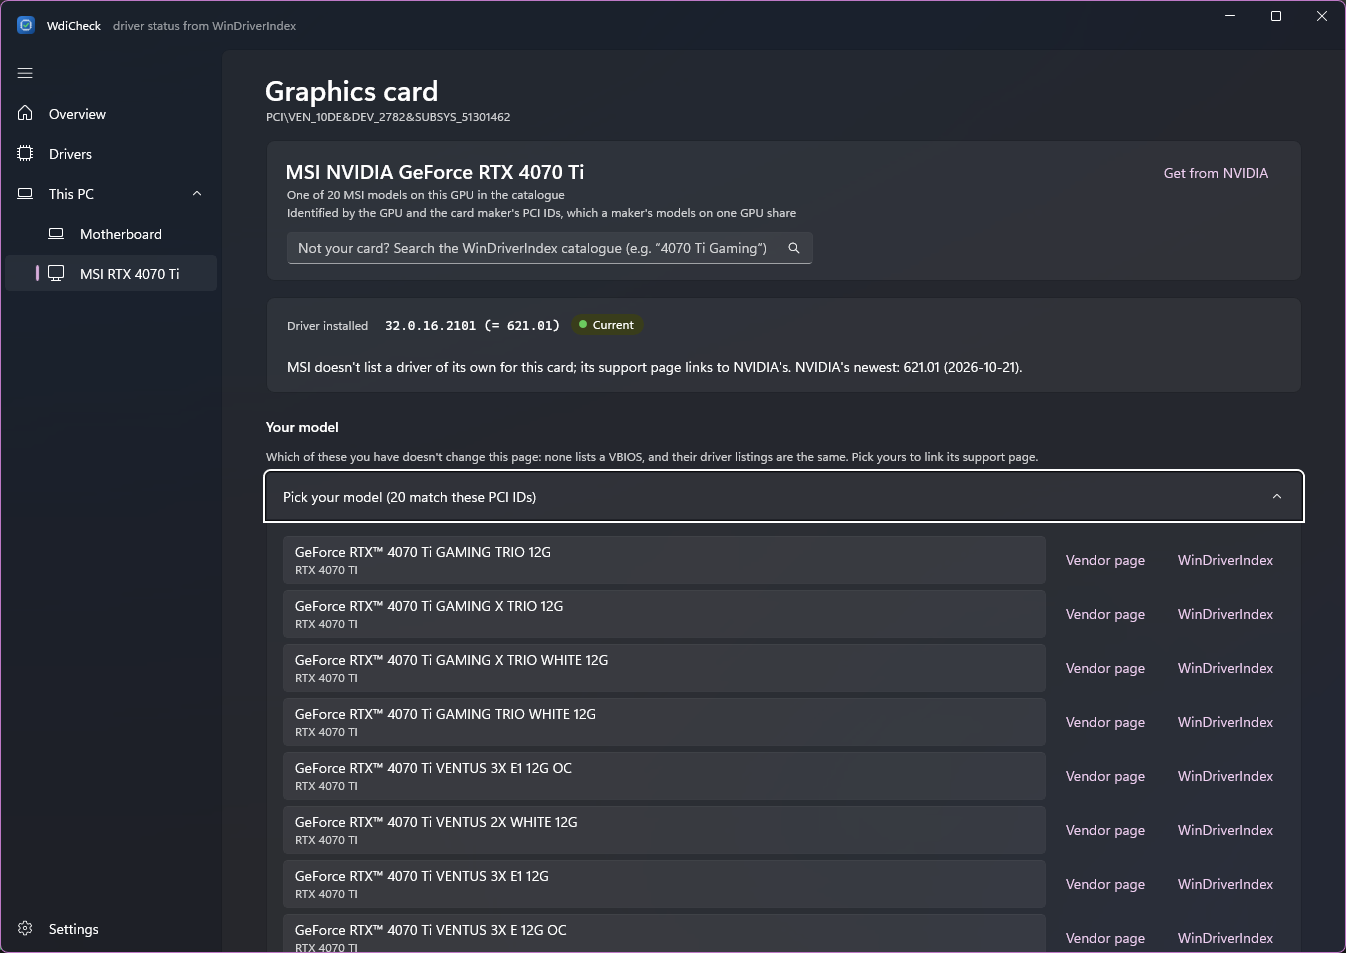
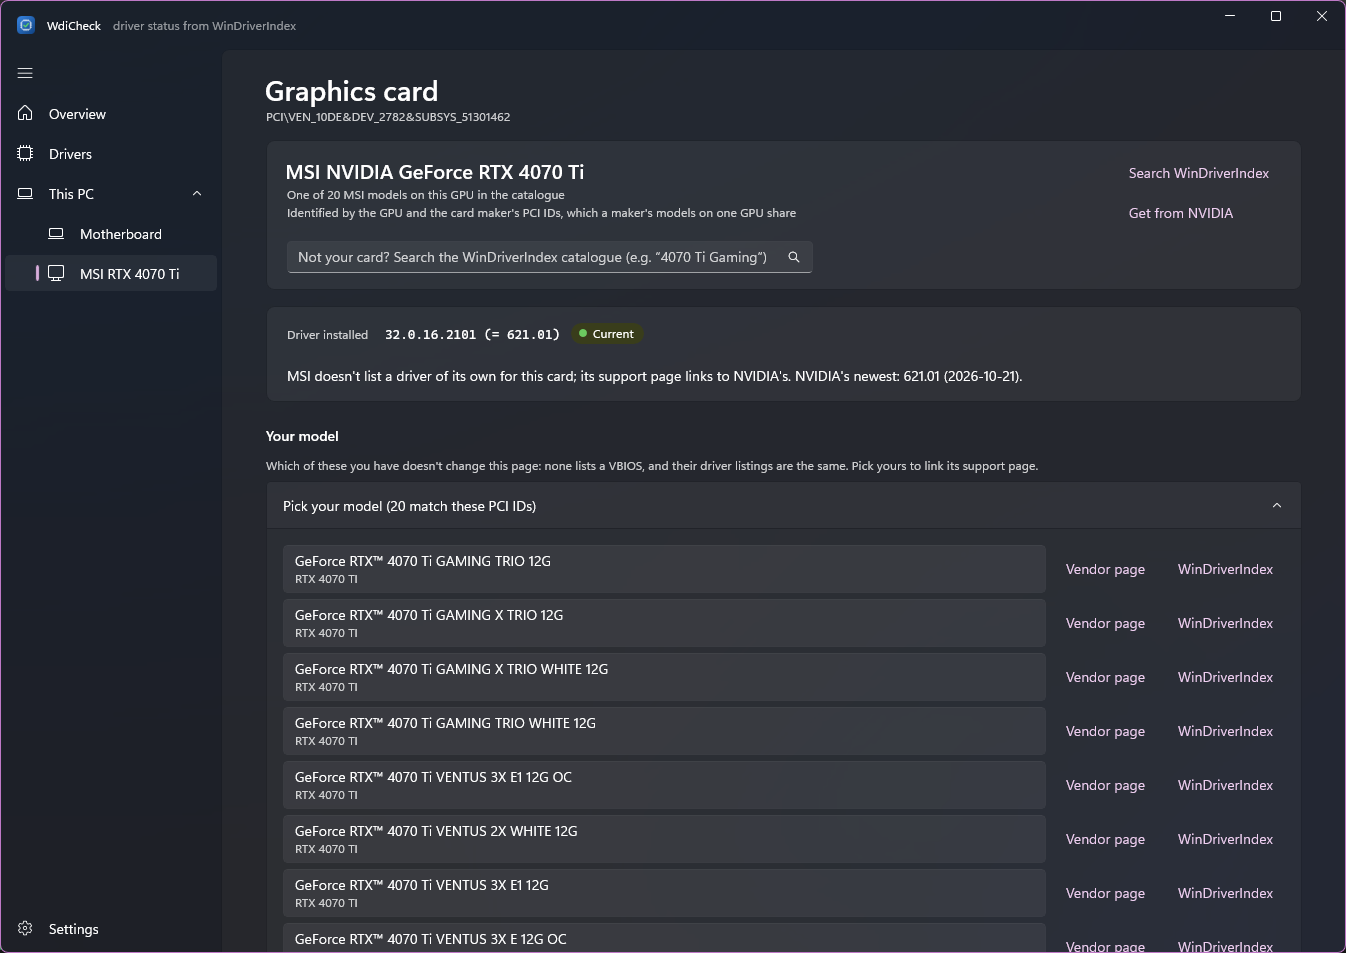
Card page: link the WinDriverIndex search before a model is chosen
There's no one report for "one of 20 models", so the top link opens the
site's board search (board.html without an id) until a model is picked.

diff --git a/src/WdiCheck.App/Views/CardPage.xaml b/src/WdiCheck.App/Views/CardPage.xaml
@@ -45,8 +45,8 @@
                             <HyperlinkButton Content="Vendor support page"
                                              NavigateUri="{x:Bind Card.SupportUrl, FallbackValue={x:Null}}"
                                              Visibility="{x:Bind vm:Display.Show(Card.HasSupportUrl), FallbackValue=Collapsed}" />
-                            <HyperlinkButton Content="WinDriverIndex page"
-                                             ToolTipService.ToolTip="This model's report on the WinDriverIndex site"
+                            <HyperlinkButton Content="{x:Bind Card.IndexPageText, FallbackValue=''}"
+                                             ToolTipService.ToolTip="{x:Bind Card.IndexPageTip, FallbackValue=''}"
                                              NavigateUri="{x:Bind Card.IndexPageUrl, FallbackValue={x:Null}}"
                                              Visibility="{x:Bind vm:Display.Show(Card.HasIndexPageUrl), FallbackValue=Collapsed}" />
                             <!-- The GPU maker's driver page: the same for every model of the card. -->

diff --git a/src/WdiCheck.App/ViewModels/CardView.cs b/src/WdiCheck.App/ViewModels/CardView.cs
@@ -29,11 +29,14 @@ public sealed partial class CardView
             Subtitle = card.Gpu.Device.Name;
             MatchText = a.IsOverride ? "Chosen by you" : $"The only {maker} card on this GPU in the catalogue";
             SupportUrl = Https(s.SupportUrl);
-            // Only for a known model: there's no one page for "one of 20".
             IndexPageUrl = dataSource is null ? null : WdiClient.BoardPage(dataSource, s.BoardId);
         }
         else
         {
+            // No one report for "one of 20": the site's search, where the models can be compared.
+            IndexPageUrl = dataSource is null ? null : WdiClient.BoardSearch(dataSource);
+            IndexPageText = "Search WinDriverIndex";
+            IndexPageTip = $"Search the WinDriverIndex catalogue for this card's models (e.g. “{ShortGpuName(card.Gpu.Device.Name)}”)";
             Title = $"{maker} {card.Gpu.Device.Name}";
             Subtitle = count == 0
                 ? $"This card isn't in the WinDriverIndex catalogue."
@@ -117,8 +120,11 @@ public sealed partial class CardView
     public string IdText { get; }
     public Uri? SupportUrl { get; }
     public bool HasSupportUrl => SupportUrl is not null;
+    /// <summary>The chosen model's report on the WinDriverIndex site; without one, the site's search.</summary>
     public Uri? IndexPageUrl { get; }
     public bool HasIndexPageUrl => IndexPageUrl is not null;
+    public string IndexPageText { get; } = "WinDriverIndex page";
+    public string IndexPageTip { get; } = "This model's report on the WinDriverIndex site";
 
     /// <summary>"Get from NVIDIA": the GPU maker's driver page, whichever card maker built the card.</summary>
     public Uri? SiliconUrl { get; }

diff --git a/src/WdiCheck.Core/Api/WdiClient.cs b/src/WdiCheck.Core/Api/WdiClient.cs
@@ -62,6 +62,9 @@ public sealed class WdiClient
     /// </summary>
     public static Uri BoardPage(Uri dataBase, int boardId) => new(EnsureTrailingSlash(dataBase), $"../../board.html#{boardId}");
 
+    /// <summary>The site's board page without a board: its search across the catalogue.</summary>
+    public static Uri BoardSearch(Uri dataBase) => new(EnsureTrailingSlash(dataBase), "../../board.html");
+
     public TimeSpan MaxAge { get; init; } = DefaultMaxAge;
 
     public string CacheDirectory => _cacheDir;

diff --git a/tests/WdiCheck.Core.Tests/WdiClientTests.cs b/tests/WdiCheck.Core.Tests/WdiClientTests.cs
@@ -25,6 +25,10 @@ public sealed class WdiClientTests : IDisposable
         Assert.Equal(expected, WdiClient.BoardPage(new Uri(source), boardId).AbsoluteUri);
 
     [Fact]
+    public void BoardSearchIsTheSitesBoardPageWithoutAnId() =>
+        Assert.Equal("https://windriverindex.tucny.com/board.html", WdiClient.BoardSearch(WdiClient.DefaultBaseUri).AbsoluteUri);
+
+    [Fact]
     public async Task DownloadsParsesAndCaches()
     {
         _handler.Next = () => Ok(FamiliesJson, "\"v1\"");

diff --git a/CHANGELOG.md b/CHANGELOG.md
@@ -17,7 +17,8 @@ WdiCheck consumes the WinDriverIndex data schema, which is versioned separately
   - The GPU maker's driver page ("Get from NVIDIA"), whichever card maker built the card.
   - Each model in "Pick your model" links its vendor page and WinDriverIndex report, to help tell
     which one you have.
-  - Once a model is chosen, its two pages are also at the top.
+  - At the top: the chosen model's WinDriverIndex report and vendor page or, before you've picked one,
+    "Search WinDriverIndex", the site's catalogue search.
 
 ### Changed
 - **The chip maker's own release** is the one on your driver's numbering line when the maker lists one.
